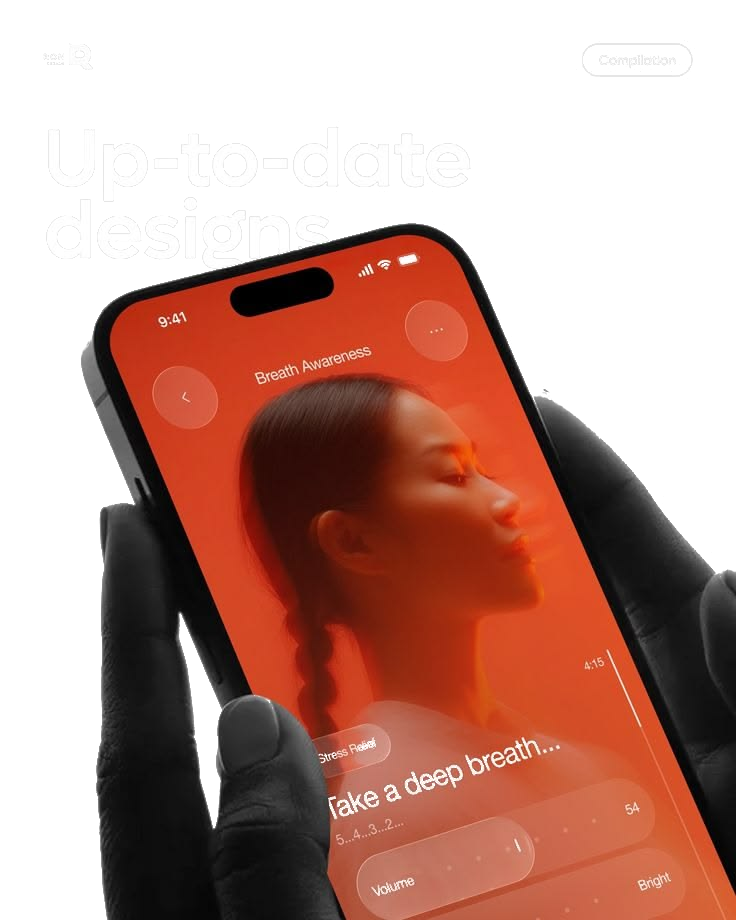
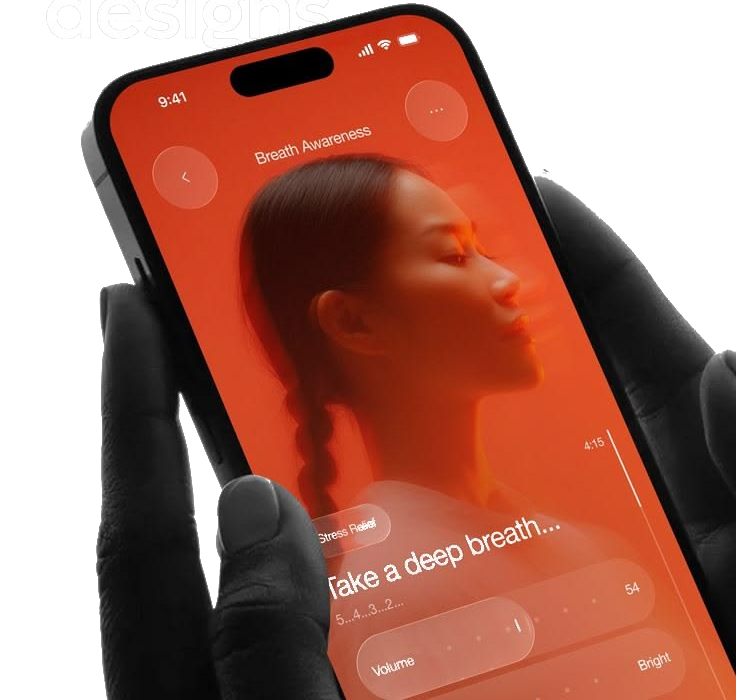
fix: Crop out top background text above smartphone image and adjust alignment on Card 2

diff --git a/src/components/ServiceStackCard.css b/src/components/ServiceStackCard.css
@@ -258,12 +258,14 @@
 }
 
 .ssc-3d-phone-image {
-  max-height: 310px;
-  transform: scale(1.08) rotate(-1.5deg);
+  max-height: 290px;
+  transform: scale(1.02) translateY(4px);
+  object-fit: contain;
+  object-position: center center;
 }
 
-.ssc-card:hover .ssc-3d-image {
-  transform: translateY(-4px) scale(1.12) rotate(0.5deg);
+.ssc-card:hover .ssc-3d-phone-image {
+  transform: translateY(-2px) scale(1.06);
 }
 
 /* ── Responsive adjustments ── */
